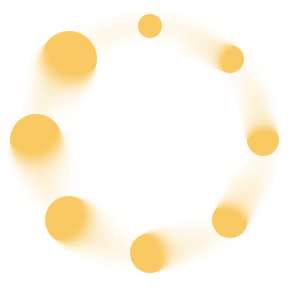
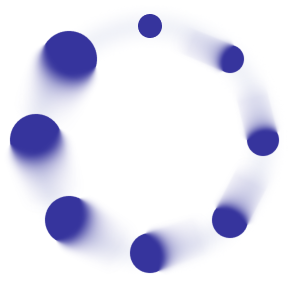
Update ZfL visuals

diff --git a/app/zfl/Index.tsx b/app/zfl/Index.tsx
@@ -28,14 +28,6 @@ export default function ZFLIndex() {
 
       <Container className="py-40 md:py-80">
         <InfoBox
-          visual={{
-            type: "image",
-            image: {
-              url: "/zfl/Oval.png",
-              alternativeText: "",
-              size: "medium",
-            },
-          }}
           heading={{
             tagName: "h2",
             text: "Vorteile des Angebots für Sie",
